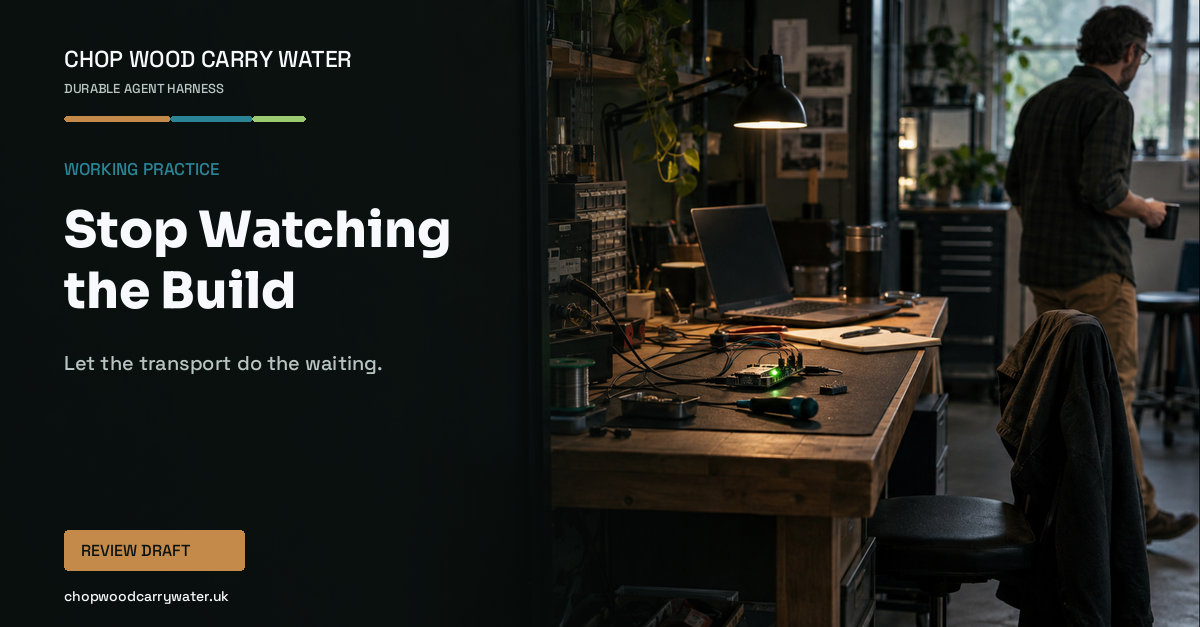
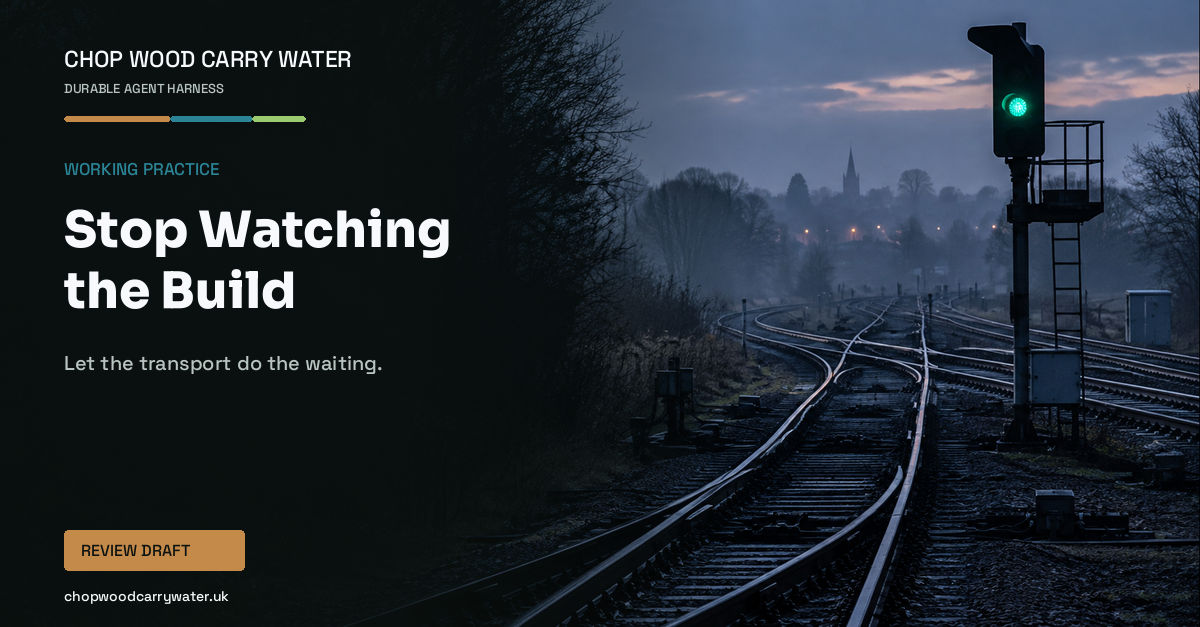
Use distinct event-driven insight image (#32)
Assisted-by: Codex

diff --git a/docs/review/stop-watching-the-build.html b/docs/review/stop-watching-the-build.html
@@ -34,7 +34,7 @@
 
       <figure class="note-hero review-hero">
         <img src="../assets/review/stop-watching-the-build.png" width="1200" height="627"
-             alt="An engineer away from a quiet embedded systems bench while build infrastructure waits for a meaningful event." fetchpriority="high">
+             alt="An empty railway junction at dawn with a green signal releasing the next movement while the infrastructure waits quietly." fetchpriority="high">
         <figcaption>Image generated with OpenAI from an editorial brief; CWCW typography and layout were applied deterministically.</figcaption>
       </figure>
       <div class="note-body review-body">
